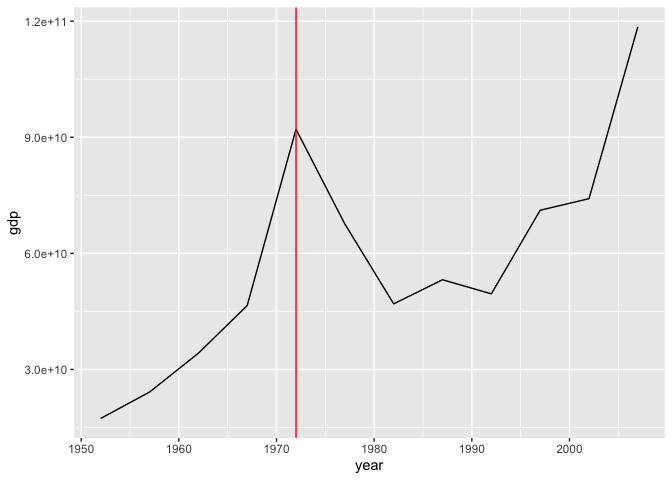
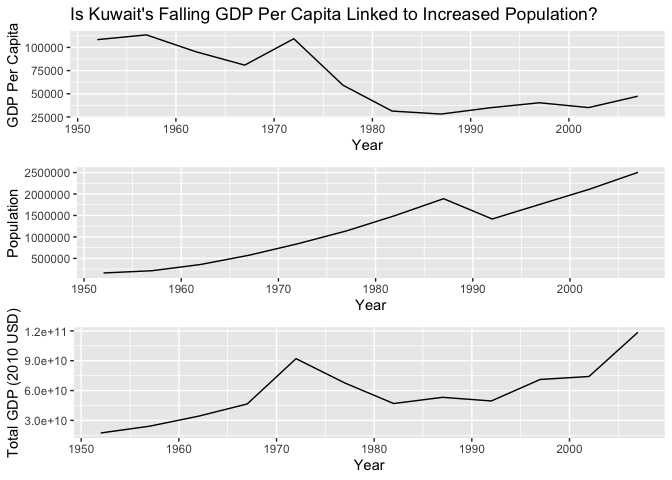
Gapminder report updated

diff --git a/challenges/c04-gapminder-assignment.md b/challenges/c04-gapminder-assignment.md
@@ -134,7 +134,8 @@ This dataset has the following variables:
   - year (int)
   - lifeExp (dbl): life expectancy in years
   - pop (int): population
-  - gdpPercap (dbl): GDP per capita (US dollars)
+  - gdpPercap (dbl): GDP per capita (2010 US dollars, inflation
+    adjusted)
 
 **q1** Determine the most and least recent years in the `gapminder`
 dataset.
@@ -273,7 +274,7 @@ gapminder %>%
 
   - Kuwait’s GDP per capita is so high that including it makes it hard
     to visualize the rest of the data, so I removed it. Kuwait’s GDP per
-    capita is 108,382.4.
+    capita is $108,382.40.
   - Oceania has a high median GDP per capita, but also has a small
     sample size. In 1952, Oceania only had 2 countries, while the other
     continents had between 25 and 52 countries.
@@ -285,8 +286,8 @@ gapminder %>%
 
   - Kuwait’s GDP per capita is so high that including it makes it hard
     to visualize the rest of the data, so I removed it. Kuwait’s GDP per
-    capita is 108,382.4. I removed Kuwait from the data set in order to
-    be able to make effective boxplots.
+    capita is $108,382.40. I removed Kuwait from the data set in order
+    to be able to make effective boxplots.
   - Overall there are several outliers, but the boxplot by continent
     makes it easy to visualize this without impacting the observations
     from the data.
@@ -364,15 +365,23 @@ gapminder %>%
   filter(gdpPercap < 90000) %>% #removing 1 outlier that made it hard to visualize
   ggplot() +
   geom_boxplot(mapping = aes(continent, gdpPercap), outlier.colour = "red") +
-  facet_wrap(~year)
+  facet_wrap(~year) +
+  labs(
+  title = "Comparing GDP per capita across continents, 1952 to 2007",
+  x = "Continent",
+  y = "GDP Per Capita (2010 USD)"
+  )
 ```
 
 ![](c04-gapminder-assignment_files/figure-gfm/q4-task-1.png)<!-- -->
 
 **Observations**:
 
-  - Most of the medians have increased, with Europe and Oceania as the
-    highest increases.
+  - Most of the medians for each continent have increased, with Europe
+    and Oceania as the highest increases.
+  - The minimum GDP per capita for the world seems to have increased.
+  - Many countries have much higher GDP per capita, though none in 2007
+    reach the level Kuwait had in 1952 ($108382).
 
 # Your Own EDA
 
@@ -389,13 +398,22 @@ to pose new questions about the data.
 ``` r
 ## TASK: Your first graph
 #Were the outliers always outliers?
+library(ggrepel)
+kuwait <- gapminder %>% filter(country == "Kuwait", year == 1972)
+
 gapminder %>%
   filter(
     country %in% c("Kuwait", "United States", "Angola", "Gabon", 
                    "South Africa", "Canada", "Venezuela", "Bahrain",
                    "Saudi Arabia", "Switzerland")) %>%
-  ggplot() +
-  geom_line(mapping = aes(x = year, y = gdpPercap, color = country))
+  ggplot(mapping = aes(x = year, y = gdpPercap)) +
+  geom_line(mapping = aes(color = country)) +
+  geom_label_repel(data = kuwait, aes(label = country)) +
+  labs(
+  title = "Exploring How 1952 GDP Per Capita Outliers Changed Over Time",
+  x = "Continent",
+  y = "GDP Per Capita (2010 USD)"
+  )
 ```
 
 ![](c04-gapminder-assignment_files/figure-gfm/q5-task1-1.png)<!-- -->
@@ -404,19 +422,50 @@ gapminder %>%
 
   - Question: Do we see anything weird if we look at outliers from 1952
     and how their GDP per capita changed over time?
-  - Kuwait actually dropped a lot, maybe because this number is per
-    capita and their population grew.
+  - Kuwait started out extremely high then dropped a lot, maybe because
+    this number is per capita and their population grew.
 
 <!-- end list -->
 
 ``` r
 ## TASK: Your second graph
-gapminder %>%
+library(gridExtra)
+```
+
+    ## 
+    ## Attaching package: 'gridExtra'
+
+    ## The following object is masked from 'package:dplyr':
+    ## 
+    ##     combine
+
+``` r
+gdpcapplot <- gapminder %>%
   filter(country == "Kuwait") %>%
-  mutate(gdp = gdpPercap * pop) %>%
   ggplot() +
-  geom_line(mapping = aes(x = year, y = gdp)) +
-  geom_vline(xintercept = 1972, color = "red")
+  geom_line(mapping = aes(x = year, y = gdpPercap)) +
+  labs(
+  title = "Is Kuwait's Falling GDP Per Capita Linked to Increased Population?",
+  x = "Year",
+  y = "GDP Per Capita"
+  )
+popplot <- gapminder %>%
+  filter(country == "Kuwait") %>%
+  ggplot() +
+  geom_line(mapping = aes(x = year, y = pop)) +
+  labs(
+  x = "Year",
+  y = "Population"
+  )
+gdpplot <- gapminder %>%
+  filter(country == "Kuwait") %>%
+  ggplot() +
+  geom_line(mapping = aes(x = year, y = gdpPercap * pop)) +
+  labs(
+  x = "Year",
+  y = "Total GDP (2010 USD)"
+  )
+grid.arrange(gdpcapplot, popplot, gdpplot)
 ```
 
 ![](c04-gapminder-assignment_files/figure-gfm/q5-task2-1.png)<!-- -->
@@ -426,7 +475,8 @@ gapminder %>%
   - Question: Did Kuwait’s GDP per capita drop so much because its
     population changed a lot?
   - After multiplying GDP by population to show the total GDP, there is
-    still a sharp drop in GDP around 1972.
+    still a sharp drop in GDP around 1972, matching the spike and sharp
+    drop in GDP per capita.
   - I found an article that said “The main shocks that have affected the
     Kuwaiti economy since 1970 have been due to developments in the
     international oil markets (the oil shock of 1973/74, see Mohaddes
@@ -443,25 +493,6 @@ gapminder %>%
 
 ``` r
 ## TASK: Your third graph
-gapminder %>%
-  filter(continent == "Asia") %>%
-  ggplot() +
-  geom_line(mapping = aes(x = year, y = pop, color = country))
-```
-
-![](c04-gapminder-assignment_files/figure-gfm/q5-task3-1.png)<!-- -->
-
-**Observations**
-
-  - Question: In which Asian countries did population grow the most from
-    1952 to 2007?
-  - If we’re looking at number of people increase, the answer is China
-    and India.
-
-<!-- end list -->
-
-``` r
-## TASK: Create a visual of gdpPercap vs continent
 library(ggrepel)
 gapminder %>%
   filter(year == year_min | year == year_max) %>%
@@ -469,16 +500,24 @@ gapminder %>%
                    "South Africa", "Canada", "Venezuela", "Bahrain",
                    "Saudi Arabia", "Switzerland")) %>%
   ggplot() +
-  geom_label_repel(mapping = aes(continent, gdpPercap, label = country)) +
-  facet_wrap(~year)
+  geom_label(mapping = aes(continent, gdpPercap, label = country, fill = country)) +
+  facet_wrap(~year) +
+  labs(
+  title = "Exploring How 1952 GDP Outliers Shifted from 1952 to 2007",
+  x = "Continent",
+  y = "Total GDP (2010 USD)"
+  )
 ```
 
-![](c04-gapminder-assignment_files/figure-gfm/q4-task-labels-1.png)<!-- -->
+![](c04-gapminder-assignment_files/figure-gfm/q5-task3-1.png)<!-- -->
 
 **Observations**
 
   - Question: How did the outliers from 1952 change relative to one
-    another over time?
-  - The US and Switzerland were on top in 1952, and in 2007 tne United
-    States is still on top, but Canada has surpassed Switzerland.
-  - Saudi Arabia grew to surpass South Africa and Gabon.
+    another over time (not including Kuwait)?
+  - The US and Switzerland were on top in 1952, closely followed by
+    Canada and Bahrain. In 2007, the US and Switzerland were still on
+    top (with switched order), and Canada was close behind but Bahrain
+    was a little farther behind.
+  - In general the spread grew, with only a small increase in the
+    minimum (Angola). This mimics what we see in the larger dataset.
